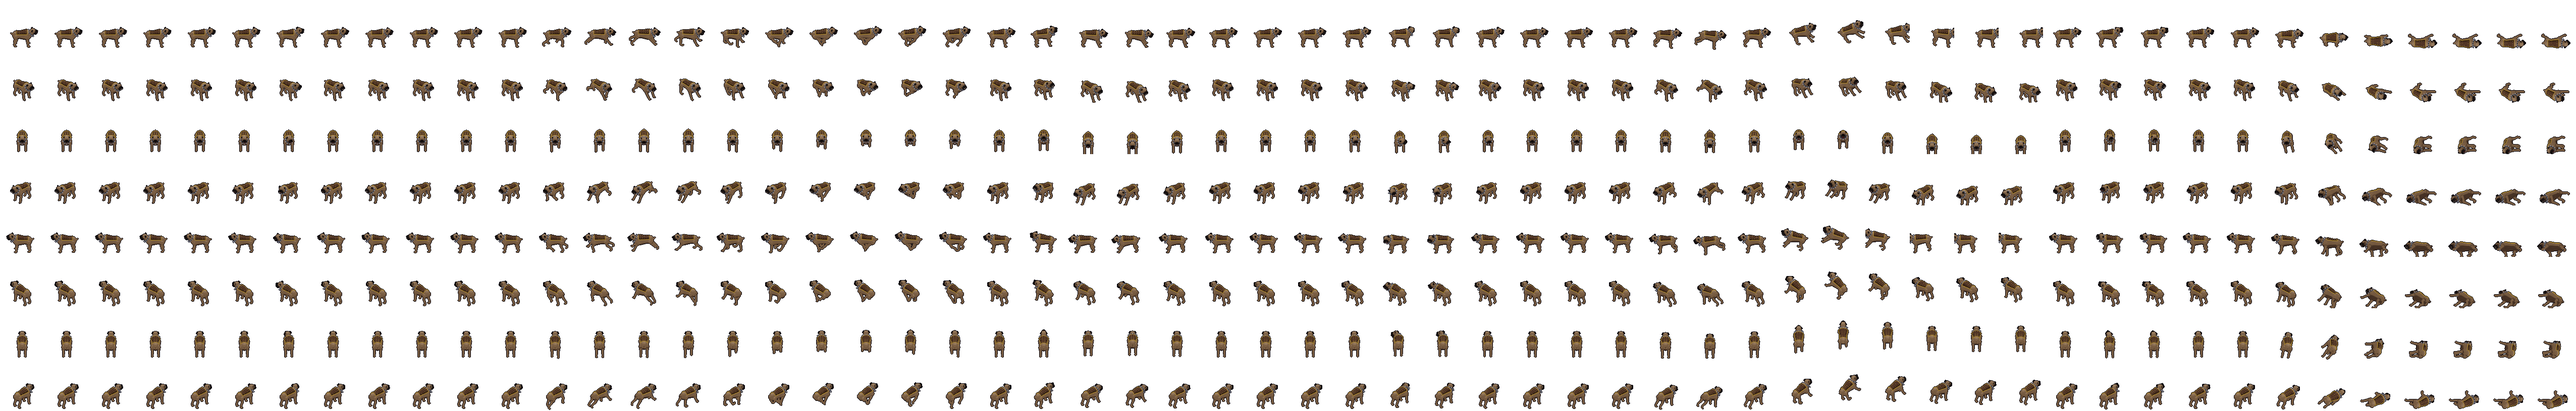
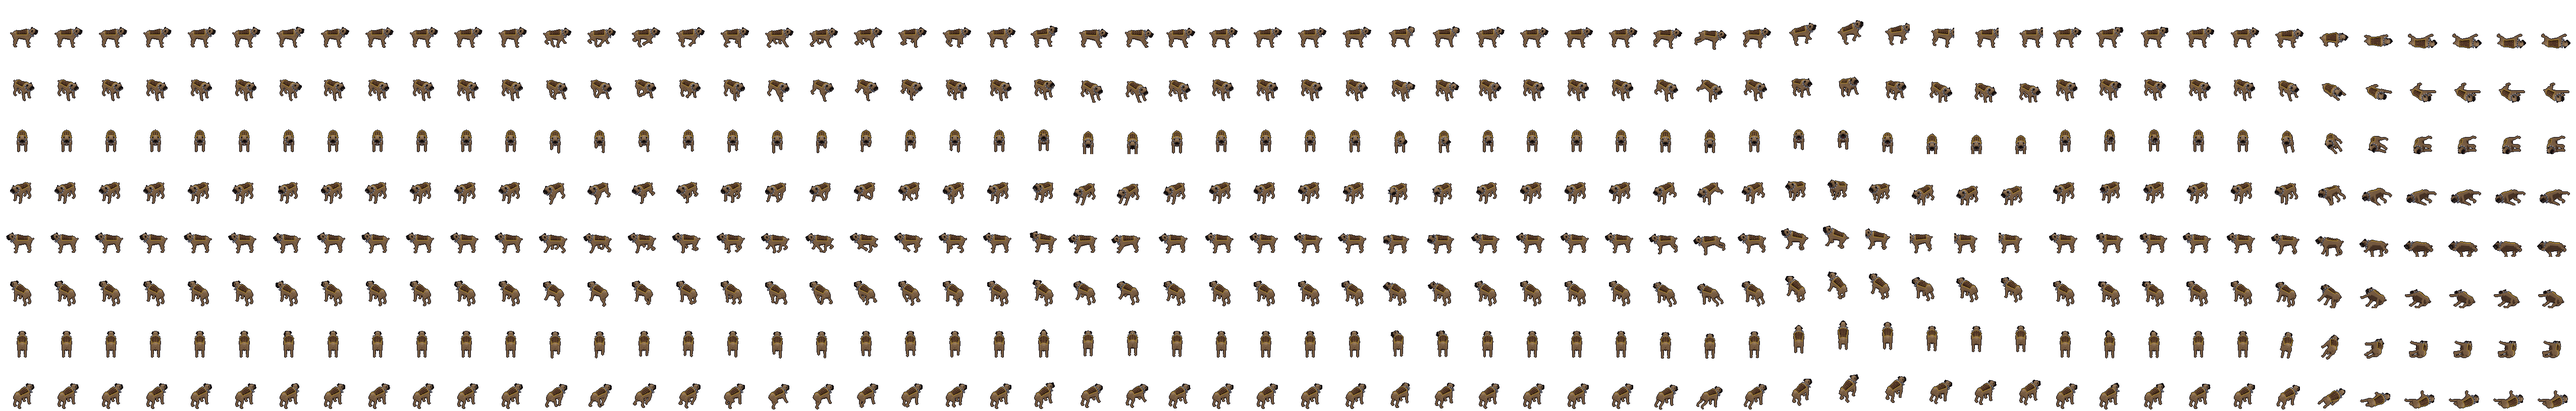
The dogs trot: diagonal pairs, planted paws, measured strides
The owner: "dog like NPCs walk funny". The cinder hound and the war-hound
share one set of clips (creatures.js dogClips), and their walk was a bound:
both forelegs together and both hind legs together, swung 40 degrees either
way. The hind knee bent the wrong way, the paws rocked on their round soles,
and the body pitched 5 degrees a stride. Measured, that walk swept a planted
paw 6.91 tiles a cycle (6.41 for the war-hound), but the game stepped it at
the townsfolk's fallback of 2.2, so the legs churned about 3x faster than
the ground went by.

- The walk is now a trot. The diagonal pairs move together and each paw is
  down 56 % of the cycle, swept back an even distance a frame. Each leg's
  angle is solved from its top joint and its wrist or hock, so all four paws
  move at one speed. The paws are held level while down. The foreleg folds
  at the wrist, the hind at the stifle and hock. The back is level: it sinks
  only by the reach the legs lose. Keyed at 90 a second (37 keys a cycle,
  was 10).
- lab.js strideOf also measures a four-legged creature built in code. Its
  paws are the vertices weighted to paw+-1 / foot+-1; a paw counts as down
  within 2.5 cm of the floor and moving back. All four legs agree at 0.589
  units a cycle. Measured stride: cinder hound 2.62 tiles a cycle (1.68
  strides/s at its 4.4 tiles/s), war-hound 2.49 (1.73 at 4.3).
- The model: the haunches (and the war-hound's shoulders) are set into the
[…]

diff --git a/tools/actor-lab/creatures.js b/tools/actor-lab/creatures.js
@@ -700,7 +700,7 @@ function hound(o = {}) {
     R.part(limb(V(0.11 * s, 0.56, 0.24), V(0.11 * s, 0.27, 0.24), 0.05, 0.03), `armU${s}`, hideC);
     R.part(limb(V(0.11 * s, 0.27, 0.24), V(0.11 * s, 0.04, 0.27), 0.028, 0.022), `armL${s}`, hide);
     R.part(blob(V(0.11 * s, 0.025, 0.29), [0.03, 0.022, 0.045], [6, 4]), `paw${s}`, hide);
-    R.part(blob(V(0.12 * s, 0.47, -0.28), [0.06, 0.09, 0.08], [8, 6]), `legU${s}`, hideC);                   // the haunch
+    R.part(blob(V(0.105 * s, 0.45, -0.28), [0.055, 0.105, 0.085], [8, 6]), `legU${s}`, hideC);               // the haunch (the dogs' pass: set into the flank and run down the thigh, not a ball stood off it)
     R.part(limb(V(0.12 * s, 0.44, -0.28), V(0.12 * s, 0.3, -0.24), 0.045, 0.03), `legU${s}`, hideC);
     R.part(limb(V(0.12 * s, 0.3, -0.24), V(0.12 * s, 0.1, -0.38), 0.028, 0.022), `legL${s}`, hide);             // (the hock, back)
     R.part(limb(V(0.12 * s, 0.1, -0.38), V(0.12 * s, 0.02, -0.33), 0.022, 0.02), `foot${s}`, hide);
@@ -718,22 +718,52 @@ function hound(o = {}) {
 // paw and legU/legL/foot each side), shared by the cinder hound and the Gull Fleet's war-hound; `drop`, how far the root
 // falls when it dies onto its side (its body's height)
 function dogClips(R, { drop = 0.36 } = {}) {
-  const legs = (t, A = 1) => {                                  // a lope: the fore pair and the hind pair, half a beat apart
-    const q = {};
-    for (const s of [1, -1]) for (const [u, l, ph] of [[`armU${s}`, `armL${s}`, s > 0 ? 0 : 0.12], [`legU${s}`, `legL${s}`, s > 0 ? 0.5 : 0.62]]) {
-      const sw = S(t + ph), lift = Math.max(0, C(t + ph)), fore = u.startsWith('arm');
-      q[u] = qe(-0.7 * A * sw, 0, 0); q[l] = qe((fore ? 1.0 : -1.0) * A * lift, 0, 0);
+  // the trot (the dogs' pass, 2026-11-28: the owner, "dog like NPCs walk funny"; docs/art-critic-pass-dogs.md). It was a
+  // bound, both forelegs together and both hind legs together, each swung 40° either way like a rocking horse's, the
+  // hind's shank thrown forward of the stifle (the knee bent the wrong way), the forelegs hardly lifted, the planted paws
+  // sliding and the body pitching 5° a stride. Now a dog's trot: the diagonal pairs together (the near fore with the off
+  // hind, the hind a breath behind), each paw down a little over half the cycle and swept back under the body an even
+  // distance a frame (what the renderer's stride matches, so a planted paw stays put), then lifted and carried forward
+  // with the joints folding as a dog's do: the foreleg's wrist folds back and the paw curls under; the hind's stifle folds
+  // the shank back and the hock tips the paw up. The back rides level: it sinks only by what the swept legs lose in reach
+  // (so no paw leaves the floor while it's down, or digs in), rolls a little over the planted pair, and the head holds
+  // steady while the shoulders work under it.
+  // each leg as its top joint and its last (the wrist, the hock), the paw hung level below that: R, how far apart; f0, how
+  // far behind plumb the last stands at rest. The paw is set where it's wanted along the floor and the leg turned to it.
+  const arc = (top, end) => { const a = R.by.get(top).userData.at, b = R.by.get(end).userData.at, dy = b.y - a.y, dz = b.z - a.z; return { R: Math.hypot(dy, dz), f0: Math.atan2(dz, -dy) }; };
+  const ARC = { arm: arc('armU1', 'paw1'), leg: arc('legU1', 'foot1') };
+  const D = 0.56, Z = 0.165;                                    // the share of a cycle a paw is down; how far ahead of plumb it's set
+  const legs = (t, k = 1) => {
+    const q = {}; let sink = 0, down = 0;
+    for (const s of [1, -1]) for (const [u, l, f, ph] of [[`armU${s}`, `armL${s}`, `paw${s}`, s > 0 ? 0 : 0.5], [`legU${s}`, `legL${s}`, `foot${s}`, s > 0 ? 0.53 : 0.03]]) {
+      const w = (((t - ph) % 1) + 1) % 1, fore = u.startsWith('arm'), { R: r, f0 } = fore ? ARC.arm : ARC.leg;
+      // down: swept back under the body an even distance a frame, every leg alike, so the renderer's stride holds each
+      // planted paw still; up: carried forward through the same arc
+      let fd, lift = 0;
+      if (w < D) fd = Math.asin((Z * (1 - 2 * w / D)) / r);
+      else { const v = (w - D) / (1 - D), a0 = Math.asin(Z / r); fd = a0 * (-1 + 2 * ease(0, 1, v)); lift = Math.sin(Math.PI * Math.min(1, v * 1.15)); }
+      let th = f0 - fd;
+      th *= k; lift *= k;
+      if (w < D) { sink += r * (Math.cos(f0) - Math.cos(fd)); down++; }
+      q[u] = qe(th, 0, 0);
+      // the fore's middle joint is its wrist: it folds back and the paw curls under; the hind's stifle folds the shank
+      // back and the hock tips the paw up (the paw held level while it's down: tilted with the leg, it rocked on its
+      // round sole and slid)
+      if (fore) { q[l] = qe(1.05 * lift, 0, 0); q[f] = qe(-th - 0.35 * lift, 0, 0); }
+      else { q[l] = qe(0.55 * lift, 0, 0); q[f] = qe(-th - 1.0 * lift, 0, 0); }
     }
-    return q;
+    return { q, sink: down ? sink / down : 0 };
   };
   const tailK = (t, a = 0.2, k = 1) => ({ tail1: qe(0.15, a * S(k * t), 0), tail2: qe(0.1, a * S(k * t - 0.15), 0), tail3: qe(0, a * S(k * t - 0.3), 0) });
   return [
     clip(R, 'Idle', 3.0, (t) => { const br = S(t * 6), lk = bell(0.4, 0.5, 0.75, t), turn = S((t - 0.4) / 0.35 * 0.5 + 0.25) * lk;
       return { q: { ...tailK(t, 0.25, 2), chest: qe(0.02 * br, 0.1 * turn, 0), neck: qe(-0.1 + 0.03 * br, 0.3 * turn, 0), head: qe(0.05, 0.3 * turn, 0), jaw: qe(0.25 + 0.12 * Math.max(0, S(t * 12)), 0, 0) }, p: { root: V(0, 0.004 * br, 0) } }; }),   // (panting, a look round)
-    clip(R, 'Walk', 0.4, (t) => ({ q: { ...legs(t), ...tailK(t, 0.15, 1), root: qe(0.08 * S(t), 0, 0), neck: qe(0.06 * S(t * 2), 0, 0), jaw: qe(0.3, 0, 0) }, p: { root: V(0, 0.03 * Math.abs(S(t)), 0) } })),
+    clip(R, 'Walk', 0.4, (t) => { const g = legs(t), sw = S(t);   // (sw: which diagonal is down, near or off)
+      return { q: { ...g.q, ...tailK(t, 0.12, 1), root: qe(0, 0, 0.025 * sw), neck: qe(0.02 * C(2 * t), 0.03 * sw, 0), head: qe(-0.02 * C(2 * t), -0.03 * sw, 0), jaw: qe(0.3, 0, 0) },
+        p: { root: V(0, -g.sink, 0) } }; }, 90),   // (keyed finely: at 24 a second a cycle had ten keys and the planted paws slid between them)
     clip(R, 'Attack', 0.55, (t) => { const w = bell(0, 0.15, 0.3, t), k = bell(0.2, 0.42, 0.8, t); return { q: { ...tailK(t, 0.3, 2), root: qe(-0.1 * w + 0.12 * k, 0, 0), neck: qe(0.3 * k - 0.3 * w, 0, 0), head: qe(-0.2 * k, 0, 0), jaw: qe(0.2 + 0.8 * bell(0.18, 0.36, 0.5, t), 0, 0), armU1: qe(-0.5 * k, 0, 0), 'armU-1': qe(-0.5 * k, 0, 0) }, p: { root: V(0, 0.02 * w - 0.03 * k, 0.2 * k - 0.04 * w) } }; }),   // (a lunge and a bite)
     clip(R, 'Attack2', 0.5, (t) => { const k = bell(0.1, 0.35, 0.8, t); return { q: { ...tailK(t, 0.25), neck: qe(0.15 * k, 0.5 * k, 0), head: qe(0, 0.4 * k, 0.3 * k), jaw: qe(0.2 + 0.7 * bell(0.15, 0.3, 0.45, t), 0, 0), chest: qe(0, 0.2 * k, 0) }, p: { root: V(0.03 * k, 0, 0.08 * k) } }; }),   // (a snap, the head turned)
-    clip(R, 'Heavy', 0.9, (t) => { const c = bell(0, 0.25, 0.38, t), j = bell(0.3, 0.55, 0.85, t); return { q: { ...legs(0.25, 0.8 * j), ...tailK(t, 0.4), root: qe(0.2 * c - 0.35 * j + 0.2 * bell(0.6, 0.75, 0.95, t), 0, 0), jaw: qe(0.2 + 0.8 * j, 0, 0), legU1: qe(0.6 * c, 0, 0), 'legU-1': qe(0.6 * c, 0, 0) }, p: { root: V(0, -0.06 * c + 0.22 * j, 0.45 * ease(0.3, 0.75, t)) } }; }),   // (it crouches and springs)
+    clip(R, 'Heavy', 0.9, (t) => { const c = bell(0, 0.25, 0.38, t), j = bell(0.3, 0.55, 0.85, t); return { q: { ...legs(0.25, 0.8 * j).q, ...tailK(t, 0.4), root: qe(0.2 * c - 0.35 * j + 0.2 * bell(0.6, 0.75, 0.95, t), 0, 0), jaw: qe(0.2 + 0.8 * j, 0, 0), legU1: qe(0.6 * c, 0, 0), 'legU-1': qe(0.6 * c, 0, 0) }, p: { root: V(0, -0.06 * c + 0.22 * j, 0.45 * ease(0.3, 0.75, t)) } }; }),   // (it crouches and springs)
     clip(R, 'Hit', 0.4, (t) => { const k = bell(0, 0.25, 1, t); return { q: { ...tailK(t, 0.5, 2), neck: qe(-0.3 * k, 0.3 * k, 0), head: qe(-0.2 * k, 0, 0), jaw: qe(0.4 * k, 0, 0) }, p: { root: V(0, 0, -0.06 * k) } }; }),
     clip(R, 'Death', 1.0, (t) => { const k = ease(0, 0.6, t); return { q: { root: qe(0, 0, 1.5 * k), neck: qe(0.3 * k, 0, 0), jaw: qe(0.5 * k, 0, 0), armU1: qe(-0.5 * k, 0, 0), 'armU-1': qe(0.3 * k, 0, 0), legU1: qe(0.4 * k, 0, 0), 'legU-1': qe(-0.3 * k, 0, 0), ...tailK(0, 0) }, p: { root: V(0, -drop * k, 0) } }; }),
     clip(R, 'Cast', 1.0, (t) => { const k = bell(0.1, 0.4, 0.9, t); return { q: { ...tailK(t, 0.2), neck: qe(-0.9 * k, 0, 0), head: qe(-0.4 * k, 0, 0), jaw: qe(0.2 + 0.6 * k, 0, 0), root: qe(-0.1 * k, 0, 0) }, p: { root: V(0, 0.02 * k, 0) } }; }),   // (a howl, the muzzle up)
@@ -806,12 +836,12 @@ function warhound(o = {}) {
   R.part(limb(V(0, 0.52, -0.37), tail[0], 0.04, 0.034, 6), 'pelvis', coatC); R.part(limb(tail[0], tail[1], 0.034, 0.02, 6), 'tail1', coatC);
   // the legs: thick and straight in front, the hind's hock well let down; big round paws
   for (const s of [1, -1]) {
-    R.part(blob(V(0.15 * s, 0.44, 0.22), [0.07, 0.1, 0.08], [8, 6]), `armU${s}`, coatC);                              // the shoulder
+    R.part(blob(V(0.135 * s, 0.41, 0.22), [0.065, 0.12, 0.085], [8, 6]), `armU${s}`, coatC);                           // the shoulder (the dogs' pass: into the chest's side and down the upper arm, not a ball)
     R.part(limb(V(0.15 * s, 0.46, 0.22), V(0.15 * s, 0.25, 0.22), 0.062, 0.045), `armU${s}`, coatC);
     R.part(limb(V(0.15 * s, 0.25, 0.22), V(0.15 * s, 0.045, 0.25), 0.042, 0.036), `armL${s}`, coat);
     R.part(blob(V(0.15 * s, 0.03, 0.27), [0.045, 0.03, 0.055], [8, 5]), `paw${s}`, coat);
     for (const d of [-1, 0, 1]) R.part(limb(V(0.15 * s + d * 0.02, 0.012, 0.31), V(0.15 * s + d * 0.022, 0.002, 0.33), 0.006, 0.002, 3), `paw${s}`, claw);
-    R.part(blob(V(0.13 * s, 0.45, -0.27), [0.075, 0.1, 0.09], [8, 6]), `legU${s}`, coatC);                           // the haunch
+    R.part(blob(V(0.115 * s, 0.42, -0.27), [0.068, 0.12, 0.095], [8, 6]), `legU${s}`, coatC);                       // the haunch (the dogs' pass: set into the rump and down the thigh)
     R.part(limb(V(0.13 * s, 0.42, -0.27), V(0.13 * s, 0.28, -0.24), 0.06, 0.045), `legU${s}`, coatC);
     R.part(limb(V(0.13 * s, 0.28, -0.24), V(0.13 * s, 0.1, -0.34), 0.042, 0.034), `legL${s}`, coat);
     R.part(limb(V(0.13 * s, 0.1, -0.34), V(0.13 * s, 0.025, -0.3), 0.032, 0.03), `foot${s}`, coat);

diff --git a/tools/actor-lab/lab.js b/tools/actor-lab/lab.js
@@ -143,20 +143,40 @@ const packAnchors = (a) => Object.fromEntries(Object.entries(a).map(([k, v]) => 
 // Converted at the camera's scale (ppu px a unit; 8√2 px a tile along the screen's x). The renderer steps
 // walk frames by distance ÷ stride, so feet that match it don't skate. Null when the fit disagrees with
 // itself (the Ashbound's shuffle drags its feet): the renderer keeps its constant then.
+// A four-legged creature built in code (creatures.js: the dogs, the rat) is one skinned mesh, so its feet are the
+// vertices weighted most to each paw's or hind foot's bone (paw±1, foot±1), the same contact rule on each (the dogs'
+// pass, 2026-11-28: they took the townsfolk's 2.2 tiles a cycle and their paws skated).
+function pawsOf(c) {
+  const legs = [];
+  c.root.traverse((m) => {
+    if (!m.isSkinnedMesh || !m.visible) return;
+    const bones = m.skeleton.bones, want = new Map();
+    bones.forEach((b, i) => { if (/^(paw|foot)-?1$/.test(b.name)) want.set(i, []); });
+    if (![...want.keys()].some((i) => bones[i].name.startsWith('paw'))) return;
+    const si = m.geometry.attributes.skinIndex, sw = m.geometry.attributes.skinWeight;
+    for (let k = 0; k < si.count; k++) { let best = -1, bw = 0; for (let j = 0; j < 4; j++) if (sw.getComponent(k, j) > bw) { bw = sw.getComponent(k, j); best = si.getComponent(k, j); } if (want.has(best)) want.get(best).push(k); }
+    for (const ks of want.values()) if (ks.length) legs.push({ m, ks });
+  });
+  return legs.length >= 4 ? legs : [];
+}
 function strideOf(c, clipName, ppu, sample) {
-  const legs = []; c.root.traverse((o) => { if (o.isSkinnedMesh && o.visible && /Leg(Left|Right)|_Leg/.test(o.name)) legs.push(o); });
+  const legs = []; c.root.traverse((o) => { if (o.isSkinnedMesh && o.visible && /Leg(Left|Right)|_Leg/.test(o.name)) legs.push({ m: o, ks: null }); });
+  if (legs.length < 2) legs.push(...pawsOf(c));
   if (legs.length < 2) return null;
   const N = 72, P = [], v = new THREE.Vector3();
   for (let i = 0; i < N; i++) {
     sample(clipName, i / N); c.root.rotation.y = 0; c.root.updateMatrixWorld(true);
-    P.push(legs.map((m) => { const pos = m.geometry.attributes.position; let lo = null;
-      for (let k = 0; k < pos.count; k++) { m.getVertexPosition(k, v); v.applyMatrix4(m.matrixWorld); if (!lo || v.y < lo[0]) lo = [v.y, v.z]; }
+    P.push(legs.map(({ m, ks }) => { const pos = m.geometry.attributes.position; let lo = null;
+      for (let q = 0, n = ks ? ks.length : pos.count; q < n; q++) { const k = ks ? ks[q] : q; m.getVertexPosition(k, v); v.applyMatrix4(m.matrixWorld); if (!lo || v.y < lo[0]) lo = [v.y, v.z]; }
       return lo; }));
   }
   const floor = Math.min(...P.flat().map((q) => q[0])), segs = [];
+  // (a paw lifts a hand's breadth, not a man's foot's: down is within 2.5 cm of the floor and moving back, so the end of
+  // its swing, coming in low, isn't read as part of the stance)
+  const paws = !!legs[0].ks, on = (i, k) => (paws ? P[i][k][0] - floor < 0.025 && i > 0 && P[i][k][1] < P[i - 1][k][1] : P[i][k][0] - floor < 0.05);
   for (let k = 0; k < legs.length; k++) for (let i = 0; i < N;) {
-    if (P[i][k][0] - floor >= 0.05) { i++; continue; }
-    let j = i; while (j < N && P[j][k][0] - floor < 0.05) j++;
+    if (!on(i, k)) { i++; continue; }
+    let j = i; while (j < N && on(j, k)) j++;
     if (j - i >= 3) {                                     // slope of z over t (cycles) by least squares
       let st = 0, sz = 0, stt = 0, stz = 0; const n = j - i;
       for (let q = i; q < j; q++) { const t = q / N, z = P[q][k][1]; st += t; sz += z; stt += t * t; stz += t * z; }
@@ -186,7 +206,7 @@ window.bakeAtlas = async (v, clips, gain = 1) => {
   const scene = new THREE.Scene(); scene.add(c.root);
   const wr = weaponRig(c, v), anchors = {};
   for (const k of Object.keys(wr)) anchors[k] = [];
-  const walkClip = clips.find((k) => k.key === 'walk' && /^(Walking|Running)_/.test(k.clip)), stride = walkClip ? strideOf(c, walkClip.clip, ppu, sample) : null;   // (a run is measured too, for the goblins; the party's renderer keeps its 4.5 regardless)
+  const walkClip = clips.find((k) => k.key === 'walk' && (/^(Walking|Running)_/.test(k.clip) || (v.creature && k.clip === 'Walk'))), stride = walkClip ? strideOf(c, walkClip.clip, ppu, sample) : null;   // (a run is measured too, for the goblins; the party's renderer keeps its 4.5 regardless)
   const mats = { alb: new Map(), emi: new Map() }, black = new THREE.MeshBasicMaterial({ color: 0 }), white = new THREE.MeshBasicMaterial({ color: 0xffffff }), unseen = new THREE.MeshBasicMaterial({ visible: false });
   let SOFT = false; c.root.traverse((o) => { if (o.isMesh && o.userData.soft) SOFT = true; });
   c.root.traverse((o) => { if (!o.isMesh) return; const eyes = /Eyes/.test(o.name), m = o.material;
@@ -466,7 +486,7 @@ window.bakeAnchors = async (v, clips) => {
   const cam = new THREE.OrthographicCamera(-W / 2 / ppu, W / 2 / ppu, H / 2 / ppu, -H / 2 / ppu, 0.1, 100);
   const pr = THREE.MathUtils.degToRad(30), yw = THREE.MathUtils.degToRad(45), tgt = new THREE.Vector3(0, box.min.y + (H * 0.5 - 6) / ppu, 0);
   cam.position.set(20 * Math.cos(pr) * Math.sin(yw), tgt.y + 20 * Math.sin(pr), 20 * Math.cos(pr) * Math.cos(yw)); cam.lookAt(tgt); cam.updateMatrixWorld(true);
-  const walkClip = clips.find((k) => k.key === 'walk' && /^(Walking|Running)_/.test(k.clip)), stride = walkClip ? strideOf(c, walkClip.clip, ppu, sample) : null;   // (a run is measured too, for the goblins; the party's renderer keeps its 4.5 regardless)
+  const walkClip = clips.find((k) => k.key === 'walk' && (/^(Walking|Running)_/.test(k.clip) || (v.creature && k.clip === 'Walk'))), stride = walkClip ? strideOf(c, walkClip.clip, ppu, sample) : null;   // (a run is measured too, for the goblins; the party's renderer keeps its 4.5 regardless)
   const wr = weaponRig(c, v), anchors = {}, frames = clips.reduce((n, k) => n + k.frames, 0);
   for (const k of Object.keys(wr)) anchors[k] = [];
   for (let dir = 0; dir < 8; dir++) {

diff --git a/docs/art-critic-pass-dogs.md b/docs/art-critic-pass-dogs.md
@@ -1,0 +1,96 @@
+# Critic pass: the dogs' walk and build
+
+*2026-11-28 · **Implemented**. The owner: "dog like NPCs walk funny, do an art and model critique pass".*
+
+The game has two dogs, and both are built in code (`tools/actor-lab/creatures.js`):
+
+- **The cinder hound** (the Reach: the Slag Tunnels' den, the Cinderworks, the Magma Vault).
+- **The Gull Fleet's war-hound** (the Tidemark: the Gull Isles, the Brine Cross siege).
+
+They share one rig and one set of clips (`dogClips`). The fix is in that shared code, so both dogs walk alike.
+
+![The walk, before and after](img/creatures/dogs/walk-before-after.jpg)
+
+![In the game, before and after (the Stage, a real dungeon room, the play camera)](img/creatures/dogs/ingame-before-after.jpg)
+
+## 1. What was wrong
+
+The critique was scored as an animator would score it, from eight frames of the walk on the sheet and in the game.
+
+| # | Problem | What it looked like |
+|---|---|---|
+| 1 | **A bound, not a walk.** Both forelegs swung together and both hind legs together, half a cycle apart. | A rabbit's hop, or a rocking horse's: the front pair reaching while the back pair pushed. No dog moves at a walking pace like that. |
+| 2 | **Swings of ±0.7 rad (40°) from plumb.** | The legs splayed fore and aft in every frame, the "hobby horse" in the in-game shot. |
+| 3 | **The feet ran three times faster than the dog.** Measured, the old walk sweeps a planted paw 6.91 tiles a cycle (6.41 for the war-hound). The game stepped it by the townsfolk's 2.2, the fallback for any atlas with no measured stride. | The legs churned at about three times the rate the ground went by, and the paws skated. |
+| 4 | **The hind knee bent the wrong way.** The shank was turned forward of the stifle in its swing, so the hind leg straightened into a pole instead of folding. | A stilt, the paw dragged through the floor. |
+| 5 | **The paws never turned.** A rounded paw tilted with its leg and rocked on its sole, sliding about 5 cm a step even when the stride was right. | Feet that don't grip. |
+| 6 | **The body pitched ±0.08 rad a stride and bobbed** with the legs. | A seesaw. |
+| 7 | **Ten keys a cycle.** The clip was keyed at 24 a second over 0.4 s, so the planted phase fell between keys. | The stance cut short; the paw slid in the last key. |
+| 8 | **The model: ball joints.** The haunches (and the war-hound's shoulders) were spheres stood 4–7 cm off the flank. | An action figure's joints, read from the play camera as balls on sticks. |
+
+## 2. What changed
+
+### The walk is a trot (`dogClips`)
+
+- **Diagonal pairs.** The near fore moves with the off hind, the hind a breath (0.03 of a cycle) behind. Each paw is down for 56 % of the cycle.
+- **An even sweep.** While a paw is down it is swept back under the body an even distance a frame. Each leg's angle is solved from where its paw should be, using the leg's top joint and its wrist or hock (`arc`). The hind's hock stands behind the hip, so the hind turns on an offset arc; solving for it puts all four paws at one speed.
+- **The paws stay level** while they are down (counter-turned to the leg), so they no longer rock and slide.
+- **The joints fold as a dog's do.** The foreleg's middle joint is its wrist: it folds back and the paw curls under. The hind's stifle folds the shank back and the hock tips the paw up.
+- **The back stays level.** The body sinks only by what the swept legs lose in reach (the mean of the planted legs), so a planted paw neither leaves the floor nor digs in. It rolls 0.025 rad over the planted pair, and the head holds steady with a slight nod.
+- **The swing is ±0.165 units** either side of plumb, not ±0.7 rad.
+- **Keyed at 90 a second.** That is 37 keys a cycle instead of 10.
+
+### The stride is measured, not borrowed
+
+`tools/actor-lab/lab.js` `strideOf` used to measure only KayKit walks. It now also reads a four-legged creature built in code:
+
+- the paws are the vertices weighted to `paw±1` / `foot±1` (`pawsOf`);
+- a paw counts as down when it is within 2.5 cm of the floor *and* moving back, so a swing coming in low isn't read as part of the stance.
+
+All four legs agree to 0.0005 (0.589 units a cycle, each leg alike).
+
+| Dog | Stride before (used / real) | Stride after | Sim speed | Cadence |
+|---|---|---|---|---|
+| Cinder hound | 2.2 (fallback) / 6.91 | **2.62** tiles a cycle | 4.4 tiles/s | 1.68 strides/s |
+| War-hound | 2.2 (fallback) / 6.41 | **2.49** tiles a cycle | 4.3 tiles/s | 1.73 strides/s |
+
+1.7 strides a second is a big dog's trot. The atlases carry the new `stride` (`assets/actors/*.json`, written by `bake.cjs`). The renderer already prefers a measured stride (`renderer.js` `strideOf`), so the planted paws now hold still on the ground.
+
+### The model
+
+- **The haunches** (both dogs) are set into the flank and run down the thigh. They used to be a ball stood off it.
+- **The war-hound's shoulders** run into the chest's side and down the upper arm.
+- The triangle counts are unchanged: 4,444 and 8,258.
+
+### Unchanged
+
+The other clips: Idle, Attack, Attack2, Hit, Death and the howl. The Heavy's spring uses the trot's leg pose, so it now folds the right way too. No sim change, so balance and replays are untouched.
+
+## 3. Scores
+
+Scored as an animator and an art director would score them, at play scale (the Stage, the game's camera, a phone's zoom).
+
+| | Before | After |
+|---|---|---|
+| The walk reads as a dog's | 3 | 8 |
+| Feet planted (no skate) | 2 | 8 |
+| Joints bend the right way | 3 | 8 |
+| Body carriage | 4 | 8 |
+| The build (joints, silhouette) | 5 | 7 |
+
+## 4. Left for another pass
+
+- **The idle stands like a table.** The legs are dead straight and square under the body. A dog shifts its weight, and one paw rests a little forward.
+- **The legs are tubes.** A dog's foreleg has a pastern angle above the paw and a little taper; the war-hound's legs read as capsules. This is a remodel of the legs' parts, not the rig.
+- **The cinder hound's laid-back ears read as horns** from above. That may be wanted for a hound of the Furnace, so it's left for the owner.
+- **The grave rat** has a different set of clips and wasn't touched. Its next bake will measure its own stride the same way, which may change how fast its legs turn in play; check it then.
+- **A real phone.** The captures are from headless Chromium at the game's camera; nothing has been checked on a device yet.
+
+## 5. How it was checked
+
+- `node tools/actor-lab/creatures-sheet.cjs out.jpg --only hound,warhound --clips Walk --frames 8`: the walk, before and after.
+- `node tools/capture/stage.mjs --show cast --cast creature_cinderhound,enemy_warhound --clips walk --frames 8 --per 2 --dir 1`: in the game, before and after.
+- `node tools/actor-lab/bake.cjs creature_cinderhound enemy_warhound --anchors`: the stride, before (6.91 / 6.41, the game using 2.2) and after (2.62 / 2.49).
+- Re-baked: `bake.cjs creature_cinderhound enemy_warhound` (the atlases).
+- Rebuilt: `tools/render3d/build.mjs` (Luminati builds the dogs from `creatures.js`).
+- `npm run check`.

diff --git a/docs/README.md b/docs/README.md
@@ -107,6 +107,7 @@ the header of each status doc for what it replaces.
 | [art-critic-pass-water.md](./art-critic-pass-water.md) | The water's critic rounds: the Canal Locks, Vat Seven, the Drowned Abbey, the Sunken Chapel's nave, before and after, perf and balance | **Implemented** (2026-11-27) |
 | [strand-dungeon.md](./strand-dungeon.md) | The coast's kits (dungeon-looks-plan item 7): `strand` (the shore in open air), `fortwall` (the Lamp Fort's walls over the surf) and the sea cave's own look; where each is used in the Tidemark | **Implemented** (2026-11-27) |
 | [art-critic-pass-tidemark-coast.md](./art-critic-pass-tidemark-coast.md) | The Tidemark a coast: the Gull Isles part beach, the Lamp Fort up from the sea, the Cabin's reef, the overland's huts, boats and nets; critic rounds, perf before and after, Tollhaven's way in | **Implemented** (2026-11-27) |
+| [art-critic-pass-dogs.md](./art-critic-pass-dogs.md) | The dogs' walk and build (the owner, 2026-11-28: "dog like NPCs walk funny"): the cinder hound's and the war-hound's bound made a trot (diagonal pairs, paws planted and level, the joints folding as a dog's), their stride measured from their paws (2.62 / 2.49 tiles a cycle; they borrowed 2.2 and their legs churned three times too fast), the haunches set into the flank | **Implemented** |
 | [solmere-city-proposal.md](./solmere-city-proposal.md) | Solmere as the game's shared city (the owner, 2026-11-27): the Lamphall's square (the town's five services in their places, the Lamphall under the Great Beacon) and a district a job round it (the Muster Yard, the Exchange, the Old Treasury, the Mint Forge, the Signal Office, the Archive, the coach stand, Wenna's quay, the Quarry road), everything within ~11 s' walk; only heroes shown (companions in state, hidden: `world.solo`, save v59 with no migration, no fights); the companion indicator compared four ways (A, a sigil chip under the name, recommended) and the party collapsed to chips; other heroes' nameplates, inspect, emotes and a Here channel, with a frame budget; ~24 seeded **stand-ins** with pre-written lines, granting nothing, labelled where you meet them (the owner's call); a Colyseus `CityRoom` per shard; seven build steps; 12 questions. Mockups: the published *Solmere City Mockups* page (plan, four phone screens, the indicator options, two real frames) | **Proposal** (2026-11-27) |
 | [world-map-replan.md](./world-map-replan.md) | The world map re-laid so the lands climb it by level (the Vale at the foot, the Heights at the head; the Mere, its Tower and the Throne where they were), progress on the World tab (each land's stars and dungeons cleared, the road climbed, a level rail), and dungeon stars (★ cleared, ★★ inside a reasonable time, ★★★ quick with nobody down; par times from pace.mjs); the overlands' roads between lands (§5), the run's clock and every par measured (§4), the World tab's and land tabs' critic round (§6) | **Prototype, implemented** (2026-11-23, GDD v1.143; the roads, the clock, the pars and the critic fixes GDD v1.146): `src/ui/wallmap.js`, `tools/worldmap/draw.mjs`, `src/ui/worldmap.js`, `src/ui/hud.js` (the run chip), `src/sim/stars.js`, `tools/balance/pace.mjs`, `test/stars.test.mjs`, `test/worldmap.test.mjs` |
 | [art-critic-pass-fens-dungeons.md](./art-critic-pass-fens-dungeons.md) | Critic pass on the Fens' dungeons: their kits had no look and drew in the default grey tiles; now the Toadking's mud and walls of upturned hulls, the locks' slick flags under pale brick, Vat Seven's sick green stone, the abbey's pale cloister; two rounds measured | **Implemented** (2026-11-16): `src/render3d/convert.js`, `tools/render3d/world.js` |
